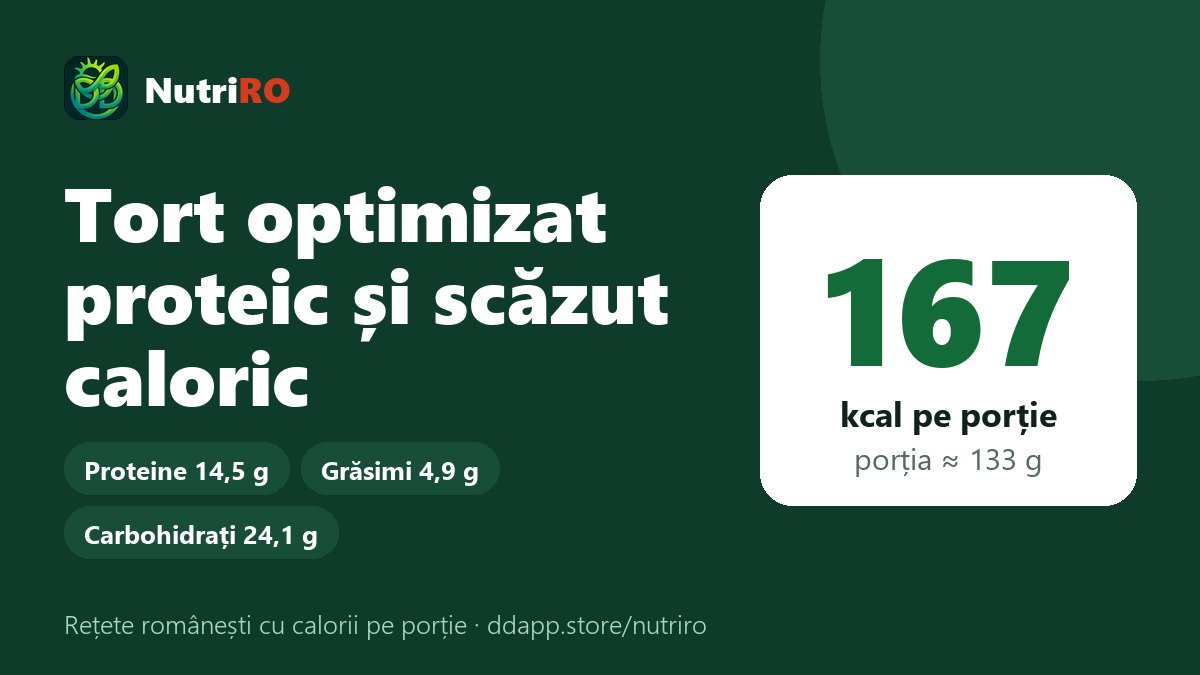
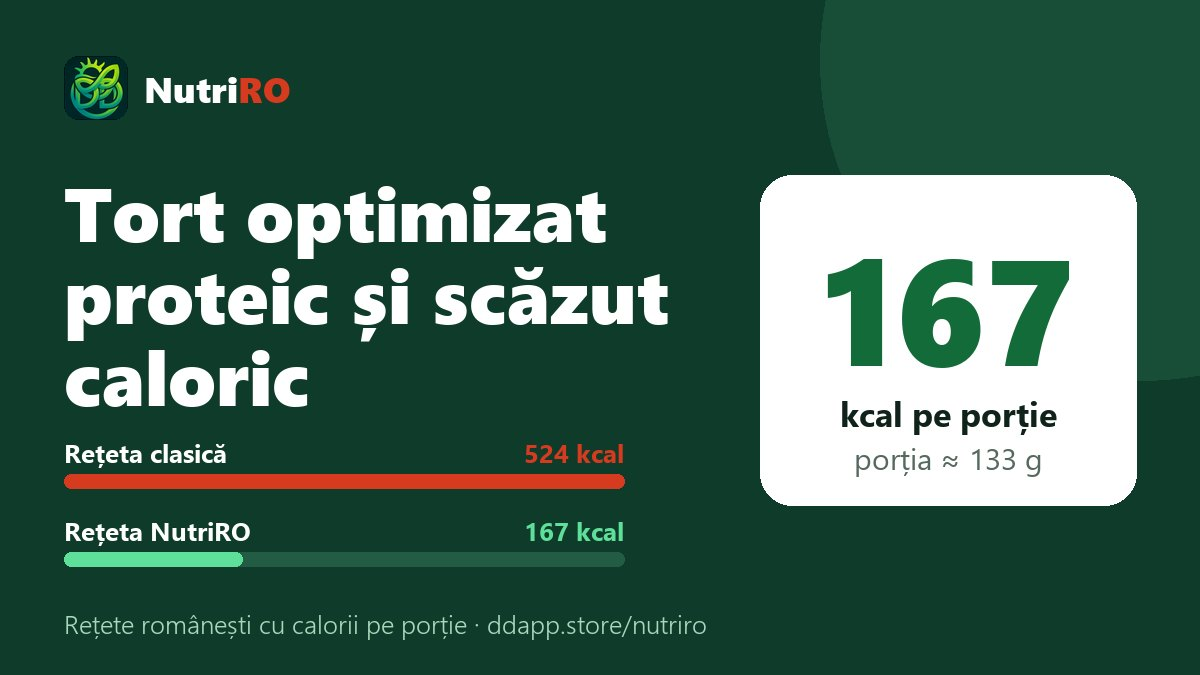
Rețete din NutriAdmin: 0 noi, 2 modificate, 0 scoase

Changed region(s): [[0.0308, 0.6533, 0.5242, 0.7467], [0.0308, 0.7778, 0.5242, 0.84]]

diff --git a/nutriro/retete/tort-optimizat-proteic-si-scazut-caloric.html b/nutriro/retete/tort-optimizat-proteic-si-scazut-caloric.html
@@ -46,13 +46,21 @@
     <p>O porție are 167 kcal și cântărește ≈ 133 g: 14,5 g proteine, 4,9 g grăsimi, 24,1 g carbohidrați (fără fibre) și 1,7 g fibre.</p>
     <div class="chips"><span>12 porții</span><span>≈ 65 min</span><span>≈ 133 g/porție</span></div>
   </div>
-  <div class="vs">
+  <div class="vs vs-cmp">
     <div class="vs-tit">O porție de 133 g</div>
-    <div class="dif" style="border:0;padding:0"><b>167</b><span>kcal pe porție</span></div>
-    <div class="bara prot"><div class="bara-rand"><span>Proteine · 14,5 g</span><b>29%</b></div><div class="bara-fond"><i style="width:29%"></i></div></div>
-    <div class="bara gras"><div class="bara-rand"><span>Grăsimi · 4,9 g</span><b>22%</b></div><div class="bara-fond"><i style="width:22%"></i></div></div>
-    <div class="bara carb"><div class="bara-rand"><span>Carbohidrați · 24,1 g</span><b>49%</b></div><div class="bara-fond"><i style="width:49%"></i></div></div>
-    <p class="vs-nota">Din ce vin caloriile porției.</p>
+    <div class="vs-carduri">
+      <div class="vs-card cl"><small>Rețeta clasică</small><span class="vs-nume">Tort de ciocolată, felie</span>
+        <div class="mini"><div class="mini-r"><span>Calorii</span><b>524 kcal</b></div><div class="mini-f"><i style="width:100%"></i></div></div>
+        <div class="mini gras"><div class="mini-r"><span>Grăsimi</span><b>29,3 g</b></div><div class="mini-f"><i style="width:100%"></i></div></div>
+        <div class="mini prot"><div class="mini-r"><span>Proteine</span><b>6,7 g</b></div><div class="mini-f"><i style="width:46%"></i></div></div>
+      </div>
+      <div class="vs-card li"><small>Rețeta NutriRO</small><span class="vs-nume">Tort optimizat proteic și scăzut caloric</span>
+        <div class="mini"><div class="mini-r"><span>Calorii</span><b>167 kcal</b></div><div class="mini-f"><i style="width:32%"></i></div></div>
+        <div class="mini gras"><div class="mini-r"><span>Grăsimi</span><b>4,9 g</b></div><div class="mini-f"><i style="width:17%"></i></div></div>
+        <div class="mini prot"><div class="mini-r"><span>Proteine</span><b>14,5 g</b></div><div class="mini-f"><i style="width:100%"></i></div></div>
+      </div>
+    </div>
+    <p class="vs-dif"><span class="pill">−357 kcal</span> <span class="pill rosu">−24,4 g grăsimi</span> <span class="pill proteina">+7,8 g proteine</span> <span>pe porție, față de rețeta clasică</span></p>
   </div>
   </section>
 
